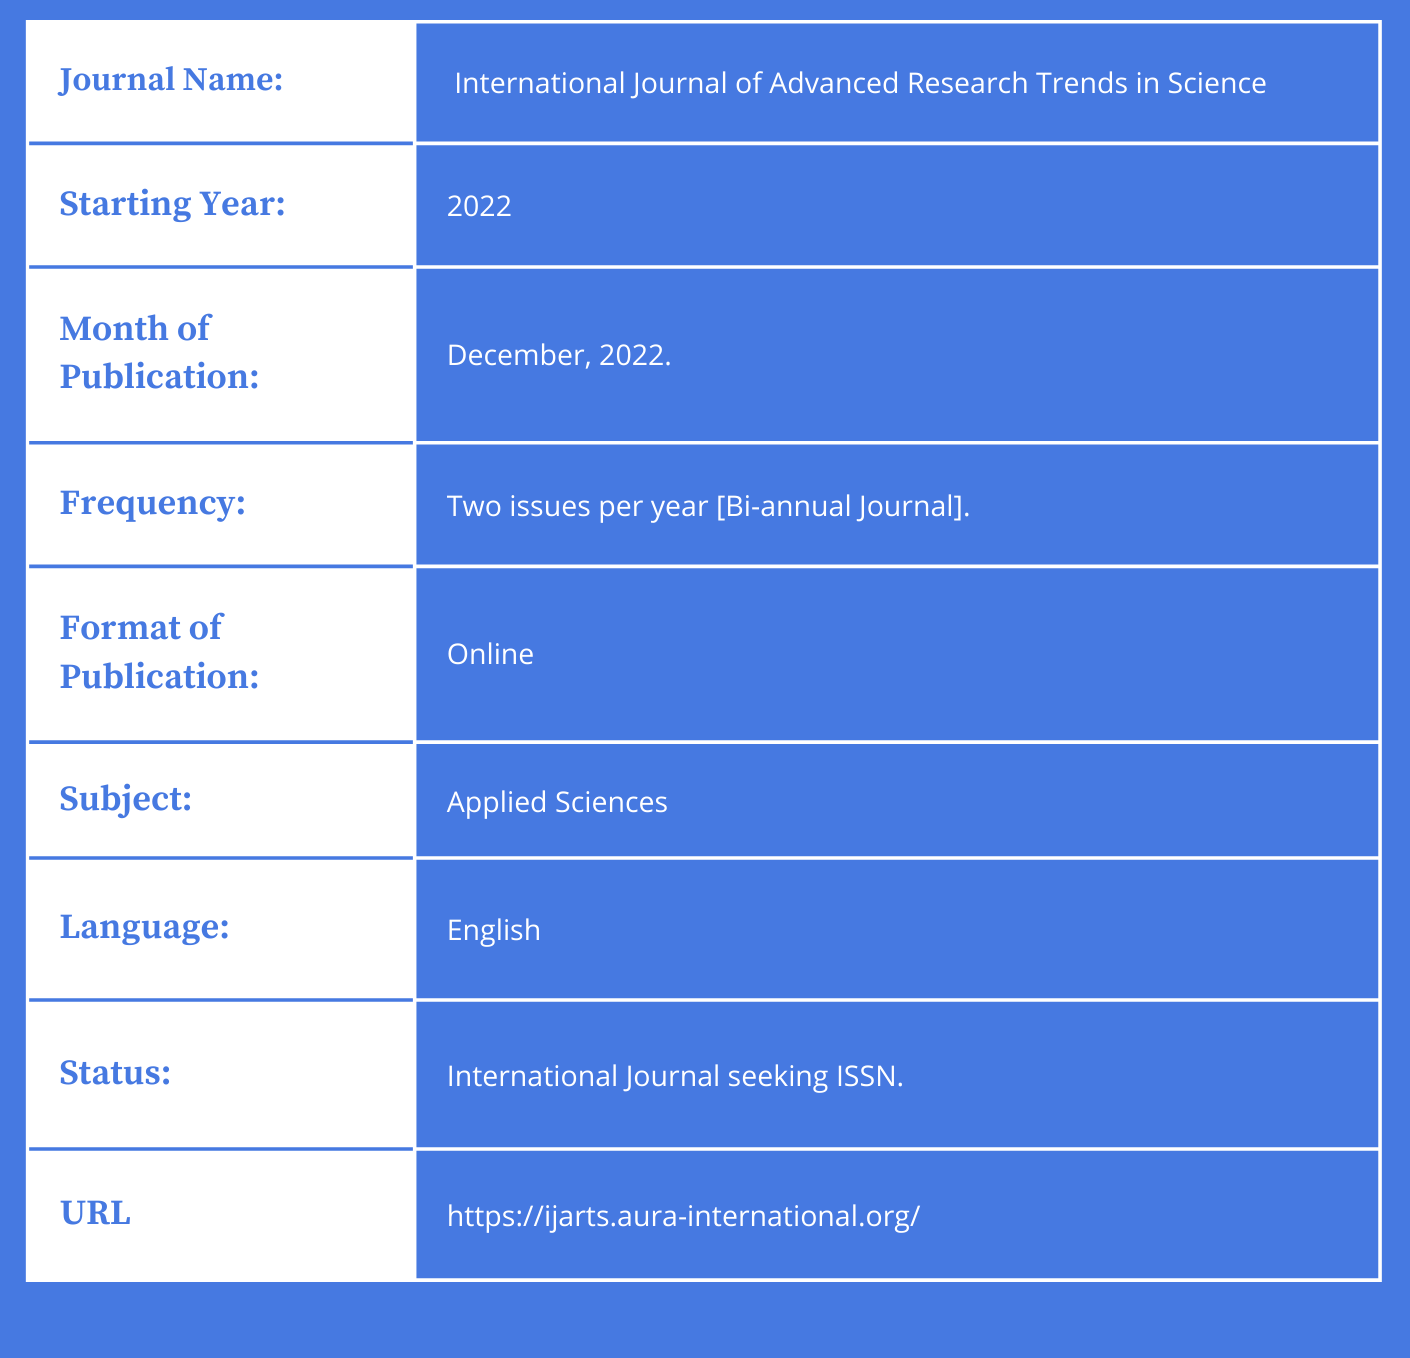
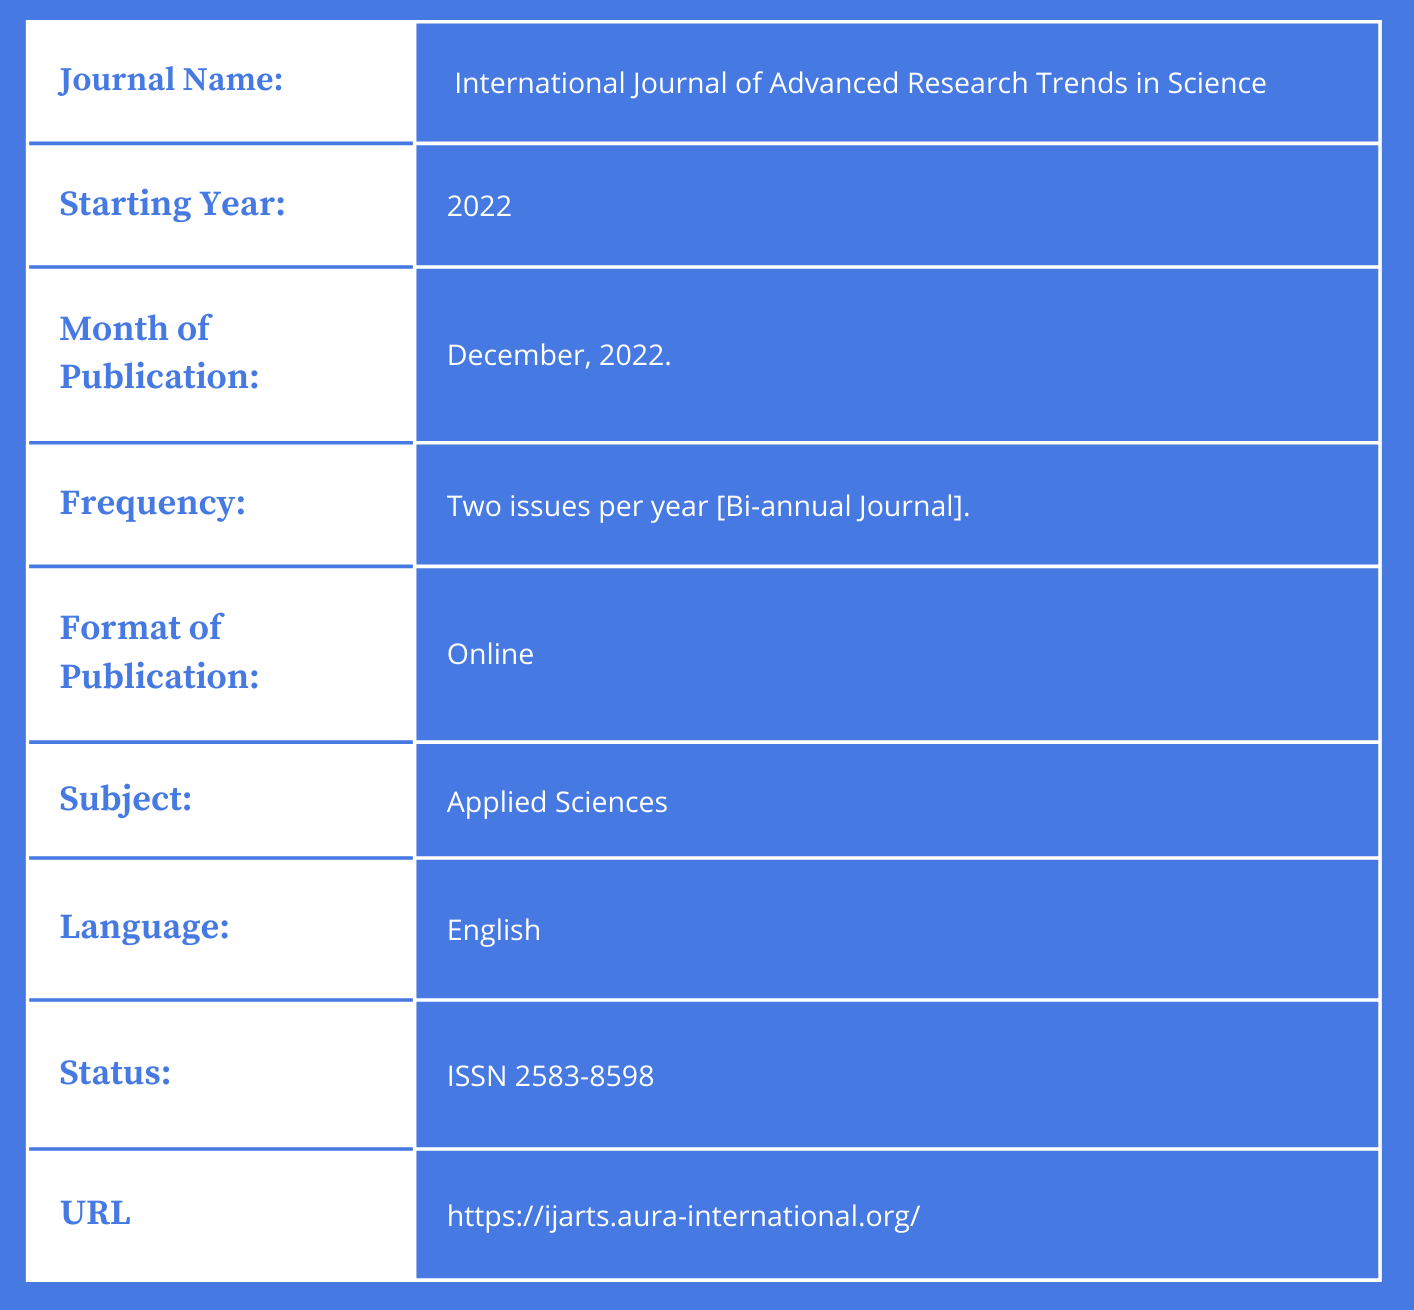
Revisions in Website after ISSN approval

Changed region(s): [[0.0, 0.0, 0.9986, 0.9771], [0.3121, 0.2443, 0.4681, 0.2748], [0.2809, 0.5191, 0.3121, 0.5802]]

diff --git a/index.html b/index.html
@@ -407,6 +407,7 @@
 						</button>
 					</a>
 				</div>
+				<p class="h5 fw-light mt-4">ISSN 2583-8598</p>
 			</div>
 		</div>
 	</section>
@@ -471,8 +472,8 @@
 					<p class="card-text fs-5 text-justify fw-light">
 						International Journal of Advanced Research Trends in Science (IJARTS)
 						is a peer reviewed research journal. The newly arrived journal will be spread and subscribed
-						worldwide. IJARTS is a bi-annual online journal and the upcoming first volume and
-						the first issue will procure ISSN after its online publication.
+						worldwide. The volumes and issues published in the research journal will explore the new horizon
+						in the research sector of advaned applied science.
 					</p>
 					<div class="about-buttons	d-grid gap-2 d-sm-flex justify-content-sm-center">
 						<a href="#subscription">
@@ -535,68 +536,12 @@
 			<h3 class="card-title display-6 fw-bold my-3 pb-4">
 				The journal covers the following areas of science
 			</h3>
-			<div class="container-fluid text-white">
-				<div class="row">
-					<div class="scope-box col-sm-6 col-xs-12 p-5">
-						<div class="scope-bg scope-1"></div>
-						<div class="h3">
-							Animal and Veterinary Sciences
-						</div>
-					</div>
-					<div class="scope-box col-sm-6 col-xs-12 p-5">
-						<div class="scope-bg scope-2"></div>
-						<div class="h3">
-							Fishery and Aquaculture Sciences
-						</div>
-					</div>
-					<div class="scope-box col-sm-6 col-xs-12 p-5">
-						<div class="scope-bg scope-3"></div>
-						<div class="h3">
-							Agriculture and Forestry Sciences
-						</div>
-					</div>
-					<div class="scope-box col-sm-6 col-xs-12 p-5">
-						<div class="scope-bg scope-4"></div>
-						<div class="h3">
-							Computer and Information Technology Sciences
-						</div>
-					</div>
-					<div class="scope-box col-sm-6 col-xs-12 p-5">
-						<div class="scope-bg scope-5"></div>
-						<div class="h3">
-							Geography and Geological Sciences
-						</div>
-					</div>
-					<div class="scope-box col-sm-6 col-xs-12 p-5">
-						<div class="scope-bg scope-6"></div>
-						<div class="h3">
-							Earth and Environmental Sciences
-						</div>
-					</div>
-					<div class="scope-box col-sm-6 col-xs-12 p-5">
-						<div class="scope-bg scope-7"></div>
-						<div class="h3">
-							Engineering and Material Sciences
-						</div>
-					</div>
-					<div class="scope-box col-sm-6 col-xs-12 p-5">
-						<div class="scope-bg scope-8"></div>
-						<div class="h3">
-							Medical and Forensic Sciences
-						</div>
-					</div>
-					<div class="scope-box col-sm-6 col-xs-12 p-5">
-						<div class="scope-bg scope-9"></div>
-						<div class="h3">
-							Biological Sciences
-						</div>
-					</div>
-					<div class="scope-box col-sm-6 col-xs-12 p-5">
-						<div class="scope-bg scope-10"></div>
-						<div class="h3">
-							Chemical Sciences
-						</div>
-					</div>
+			<div class="container-fluid text-dark">
+				<div class="row mb-5 px-5 fs-5 fw-light">
+					Animal and Veterinary Sciences, Fishery and Aquaculture Sciences, Agriculture and Forestry
+					Sciences,Computer and Information Technology Sciences, Geography and Geological Sciences, Earth
+					and Environmental Sciences, Engineering and Material Sciences, Medical and Forensic Sciences,
+					Biological Sciences and Chemical Sciences
 				</div>
 			</div>
 		</div>
@@ -657,8 +602,10 @@
 	<section id="editorial" class="card bg-hex">
 		<div class="card-body text-blue text-center">
 			<h3 class="card-title display-5 fw-bold my-3">Editorial Board</h3>
+
+			<!-- Editors-in-Chief Section Starts -->
 			<h4 class="rounded-1 d-inline-block fs-3 fw-normal mt-3 bg-purple text-white px-4 py-3 text-uppercase">
-				Chief Editors
+				Editors-in-Chief
 			</h4>
 			<div class="d-flex justify-content-center row py-5 text-baseBlue">
 				<div class="col-lg-4 d-flex">
@@ -709,30 +656,14 @@
 					</div>
 				</div>
 			</div>
+			<!-- Editors-in-Chief Section Ends -->
+
+
+			<!-- Executive Editors Section Starts -->
 			<h4 class="rounded-1 d-inline-block fs-3 fw-normal mt-3 bg-purple text-white px-4 py-3 text-uppercase">
-				Editors
+				Executive Editors
 			</h4>
 			<div class="d-flex justify-content-center row py-5 text-baseBlue">
-				<!-- <div class="col-lg-4 col-9 d-flex">
-					<div class="card w-100 mx-auto my-3 pt-3 chief-editor-card">
-						<div class="card-head">
-							<p class="h2">
-								Dr. Siranee Sreesai
-							</p>
-							<a href="mailto:siranee.sre@mahidol.ac.th" class="fs-5 text-decoration-none">
-								siranee.sre@mahidol.ac.th
-							</a>
-						</div>
-						<div class="card-body ds-6">
-							<div class="fs-5">
-								Professor.
-							</div>
-							<div>Department of Environmental Health Science,</div>
-							<div> Faculty of Public Health, Mahidol University, </div>
-							<div>Bangkok, Thailand.</div>
-						</div>
-					</div>
-				</div> -->
 				<div class="col-lg-4 col-9 d-flex">
 					<div class="card w-100 mx-auto my-3 pt-3 chief-editor-card">
 						<div class="card-head">
@@ -759,6 +690,60 @@
 						</div>
 					</div>
 				</div>
+				<div class="col-lg-4 col-9 d-flex">
+					<div class="card w-100 mx-auto my-3 pt-3 chief-editor-card">
+						<div class="card-head">
+							<p class="h2">
+								Dr. Suman Dutta
+							</p>
+							<a href="mailto:feritgurbuz@hakkari.edu.tr" class="fs-5 text-decoration-none">
+								suman.dutta@ndcn.ox.ac.uk
+							</a>
+						</div>
+						<div class="card-body ds-6">
+							<div class="fs-5">
+								Research Scientist.
+							</div>
+							<div>Newffield Department of Clinical Neurosciences,</div>
+							<div>Medical Sciences Division,</div>
+							<div>University of Oxford.</div>
+							<br />
+							<a href="https://www.ndcn.ox.ac.uk/team/suman-dutta" target="_blank"
+								rel="noreferrer noopener" class="fs-6 text-decoration-none">
+								Visit Profile
+								<i class="bi bi-box-arrow-up-right"></i>
+							</a>
+						</div>
+					</div>
+				</div>
+			</div>
+			<!-- Executive Editors Section Ends -->
+
+			<!-- Editors Section Starts -->
+			<h4 class="rounded-1 d-inline-block fs-3 fw-normal mt-3 bg-purple text-white px-4 py-3 text-uppercase">
+				Editors
+			</h4>
+			<div class="d-flex justify-content-center row py-5 text-baseBlue">
+				<!-- <div class="col-lg-4 col-9 d-flex">
+					<div class="card w-100 mx-auto my-3 pt-3 chief-editor-card">
+						<div class="card-head">
+							<p class="h2">
+								Dr. Siranee Sreesai
+							</p>
+							<a href="mailto:siranee.sre@mahidol.ac.th" class="fs-5 text-decoration-none">
+								siranee.sre@mahidol.ac.th
+							</a>
+						</div>
+						<div class="card-body ds-6">
+							<div class="fs-5">
+								Professor.
+							</div>
+							<div>Department of Environmental Health Science,</div>
+							<div> Faculty of Public Health, Mahidol University, </div>
+							<div>Bangkok, Thailand.</div>
+						</div>
+					</div>
+				</div> -->
 				<!-- <div class="col-lg-4 col-9 d-flex">
 					<div class="card w-100 mx-auto my-3 pt-3 chief-editor-card">
 						<div class="card-head">
@@ -859,7 +844,7 @@
 						</div>
 					</div>
 				</div> -->
-				<!-- <div class="col-lg-4 col-9 d-flex">
+				<div class="col-lg-4 col-9 d-flex">
 					<div class="card w-100 mx-1 my-3 pt-3 chief-editor-card">
 						<div class="card-head">
 							<p class="h2">
@@ -878,14 +863,14 @@
 							<div>University of Kalyani, Krishnagar, Nadia, </div>
 							<div>West Bengal, India.</div>
 							<br />
-							<a href="http://www.krishnagargovtcollege.org/Zoo_5_Tanmay_Sanyal.pdf" target="_blank" rel="noreferrer noopener"
-								class="fs-6 text-decoration-none">
+							<a href="http://www.krishnagargovtcollege.org/Zoo_5_Tanmay_Sanyal.pdf" target="_blank"
+								rel="noreferrer noopener" class="fs-6 text-decoration-none">
 								Visit Profile
 								<i class="bi bi-box-arrow-up-right"></i>
 							</a>
 						</div>
 					</div>
-				</div> -->
+				</div>
 				<div class="col-lg-4 col-9 d-flex">
 					<div class="card w-100 mx-auto my-3 pt-3 chief-editor-card">
 						<div class="card-head">
@@ -912,7 +897,7 @@
 						</div>
 					</div>
 				</div>
-				<!-- <div class="col-lg-4 col-9 d-flex">
+				<div class="col-lg-4 col-9 d-flex">
 					<div class="card w-100 mx-auto my-3 pt-3 chief-editor-card">
 						<div class="card-head">
 							<p class="h2">
@@ -931,14 +916,14 @@
 							<div>Raiganj Government Medical College and Hospital,</div>
 							<div>West Bengal, India</div>
 							<br />
-							<a href="https://sites.google.com/view/dattatreyamukherjee/home" target="_blank" rel="noreferrer noopener"
-								class="fs-6 text-decoration-none">
+							<a href="https://sites.google.com/view/dattatreyamukherjee/home" target="_blank"
+								rel="noreferrer noopener" class="fs-6 text-decoration-none">
 								Visit Profile
 								<i class="bi bi-box-arrow-up-right"></i>
 							</a>
 						</div>
 					</div>
-				</div> -->
+				</div>
 				<!-- <div class="col-lg-4 col-9 d-flex">
 					<div class="card w-100 mx-auto my-3 pt-3 chief-editor-card">
 						<div class="card-head">
@@ -1188,21 +1173,21 @@
 					</div>
 				</div> -->
 			</div>
+			<!-- Editors Section Ends -->
+
 			<div class="rounded-2 bg-purple py-5 container">
 				<p class=" h4 text-white px-3 text-justify">
 					IJARTS is the research journal that is subjected to editing by pervasive and skillful editorial
-					board
-					mustering by renowned scientists and researchers. We are inviting expertise scientists, professors,
-					and
-					researchers related to scientific research to become glowing members of the IJARTS editorial board.
-					The
-					interested colleagues may send their resumes to:
+					board mustering by renowned scientists and researchers. We are inviting expertise scientists,
+					professors, and researchers related to scientific research to become glowing members of the IJARTS
+					editorial board. The interested colleagues may send their resumes to:
 				</p>
 				<a href="mailto:editor@aura-international.org"
 					class="btn btn-lg bg-light px-4 d-inline-block mx-auto mt-4 text-blue fw-bold h3 mw-100">
 					<p class="w-100">editor@aura-international.org</p>
 				</a>
 			</div>
+
 		</div>
 	</section>
 	<!-- EDITORIAL Section Ends -->
